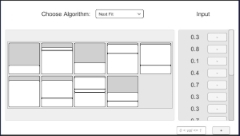
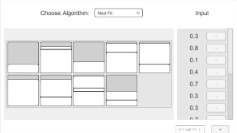
blob style, no ugly borders, clean images

diff --git a/projects/index.html b/projects/index.html
@@ -49,9 +49,9 @@
 			<h1>Projects</h1>
 			
 			<div class="social">
-				<a href="https://github.com/evanfinnigan"><img src="../images/icons/github.png" alt="github icon" height="64" width="64"></a>
-				<a href="https://twitter.com/evanfinnigan"><img src="../images/icons/twitter.png" alt="twitter icon" height="64" width="64"></a>
-				<a href="https://www.instagram.com/evanfinnigan/"><img src="../images/icons/instagram.png" alt="instagram icon" height="64" width="64"></a>
+				<a class="nofocus"  href="https://github.com/evanfinnigan"><img src="../images/icons/github.png" alt="github icon" height="64" width="64"></a>
+				<a class="nofocus" href="https://twitter.com/evanfinnigan"><img src="../images/icons/twitter.png" alt="twitter icon" height="64" width="64"></a>
+				<a class="nofocus" href="https://www.instagram.com/evanfinnigan/"><img src="../images/icons/instagram.png" alt="instagram icon" height="64" width="64"></a>
 			</div>
 			
 			<p>These are some projects and games I have created. The links below provide more details about each project!</p>
@@ -59,27 +59,27 @@
 			<br><br>
 
 			<div class="short-preview">
-				<a href="fidget.html"><img src="../images/fidget.png" alt="Thumbnail for Fidget Spinner."></a>
+				<a class="nofocus" href="fidget.html"><img src="../images/fidget.png" alt="Thumbnail for Fidget Spinner."></a>
 				<a href="fidget.html">Fidget Spinner</a>
 			</div>
 
 			<div class="short-preview">
-				<a href="bin-packing.html"><img src="../images/binpacking-thumbnail.jpg" alt="Thumbnail for Bin Packing project."></a>
+				<a class="nofocus" href="bin-packing.html"><img src="../images/binpacking-thumbnail.jpg" alt="Thumbnail for Bin Packing project."></a>
 				<a href="bin-packing.html">Bin Packing</a>
 			</div>
 			
 			<div class="short-preview">
-				<a href="monster-lazer.html"><img src="../images/monster-lazer-thumbnail.png" alt="Thumbnail for Monster Lazer."></a>
+				<a class="nofocus" href="monster-lazer.html"><img src="../images/monster-lazer-thumbnail.png" alt="Thumbnail for Monster Lazer."></a>
 				<a href="monster-lazer.html">Monster Lazer</a>
 			</div>
 			
 			<div class="short-preview">
-				<a href="game-engines.html"><img src="../images/thumbnails/aerial-firefighting.png" alt="Thumbnail for Game Engines project."></a>
+				<a class="nofocus" href="game-engines.html"><img src="../images/thumbnails/aerial-firefighting.png" alt="Thumbnail for Game Engines project."></a>
 				<a href="game-engines.html">Game Engines Final Project</a>
 			</div>
 			
 			<div class="short-preview">
-				<a href="list/index.html"><img src="../images/thumbnails/emoji-rank.png" alt="Thumbnail for List Rank Demo."></a>
+				<a class="nofocus" href="list/index.html"><img src="../images/thumbnails/emoji-rank.png" alt="Thumbnail for List Rank Demo."></a>
 				<a href="list/index.html">List Ranking Demo</a>
 			</div>
 			

diff --git a/css/styles.css b/css/styles.css
@@ -64,8 +64,13 @@ a:visited, #visited-example {
 	display:none;
 }
 
-a:focus:not(.nav) {
+:focus:not(.nofocus) {
 	border: 1px solid white;
+}
+
+.nofocus:focus img {
+	border: 1px solid white;
+	background: black;
 }
 
 a img:hover {
@@ -175,12 +180,12 @@ code {
 
 .blogpost {
 	display: block;
-	padding: 10px;
+	padding: 1px 30px;
 	margin: 30px 10px;
 	box-sizing: border-box;
 	background: #171E21;
 	border-style: solid;
-	border-width: 1px 1px 1px 8px;
+	border-width: 0px 0px 0px 12px;
 	border-color: #D73C54;
 	border-radius: 15px;
 	font-size: 16px;
@@ -194,14 +199,14 @@ code {
 
 .card {
 	display: block;
-	padding: 10px;
+	padding: 10px 30px;
 	margin: 32px 10px;
 	box-sizing: border-box;
 	background: #171E21;
-	border-style: solid;
-	border-width: 1px 1px 1px 1px;
+	//border-style: solid;
+	//border-width: 5px 50px;
 	border-color: #D73C54;
-	border-radius: 15px;
+	border-radius: 30px;
 	font-size: 16px;
 	text-align: left;
 }
@@ -247,9 +252,10 @@ main {
 }
 
 img {
-	border-style: solid;
+	//border-style: solid;
 	border-width: 1px;
 	border-color: white;
+	border-radius: 15px;
 }
 
 img, .four-columns p, .eight-columns p {
@@ -316,14 +322,14 @@ table {
 .short-preview {
 	display: inline-block;
 	box-sizing: border-box;
-	border-style: solid;
+	//border-style: solid;
 	border-width: 1px;
 	border-color: #D73C54;
-	border-radius: 10px;
+	border-radius: 30px;
 	background: #171E21;
 	width: 12em;
-	height: 12em;
-	padding: 15px;
+	min-height: 11.5em;
+	padding: 1em;
 	margin: 10px;
 	overflow: hidden;
 }
@@ -340,7 +346,7 @@ table {
 .short-preview img {
 	object-fit: cover;
 	height: 6em;
-	width: 7.5em;
+	width: 8em;
 	padding: 0;
 }
 
@@ -371,6 +377,10 @@ ol, ul {
 		margin: 0 auto;
 		padding: 1em;
 		text-align: left;
+	}
+	
+	.card, .blogpost {
+		padding: 10px 50px;
 	}
 }
 
@@ -441,6 +451,14 @@ ol, ul {
 	
 	.social a {
 		margin: 0px 10px;
+	}
+	
+	.card, .blogpost {
+		padding: 1px 10px;
+	}
+	
+	ul {
+		padding-left: 20px;
 	}
 }
 

diff --git a/contact/index.html b/contact/index.html
@@ -51,7 +51,7 @@
 			<p>I'm currently open to hearing about employment opportunities. Please send the details to me via email:</p>
 			
 			<div class="social">
-				<a href="mailto:evanfinnigan at gmail.com"><img src="../images/icons/email.png" alt="instagram icon" height="64" width="64"></a>
+				<a class="nofocus" href="mailto:evanfinnigan at gmail.com"><img src="../images/icons/email.png" alt="instagram icon" height="64" width="64"></a>
 				<br>
 				<a href="mailto:evanfinnigan@gmail.com">evanfinnigan@gmail.com</a>
 			</div>
@@ -60,19 +60,19 @@
 			
 			<div class="social">
 				<div class="four-columns">
-					<a href="https://github.com/evanfinnigan"><img src="../images/icons/github.png" alt="github icon" height="64" width="64"></a>
+					<a class="nofocus" href="https://github.com/evanfinnigan"><img src="../images/icons/github.png" alt="github icon" height="64" width="64"></a>
 					<br>
 					<a href="https://github.com/evanfinnigan">Github</a>
 				</div>
 				
 				<div class="four-columns">
-					<a href="https://twitter.com/EvanFinnigan"><img src="../images/icons/twitter.png" alt="twitter icon" height="64" width="64"></a>
+					<a class="nofocus" href="https://twitter.com/EvanFinnigan"><img src="../images/icons/twitter.png" alt="twitter icon" height="64" width="64"></a>
 					<br>
 					<a href="https://twitter.com/EvanFinnigan">Twitter</a>
 				</div>
 			
 				<div class="four-columns">
-					<a href="https://www.instagram.com/evanfinnigan/"><img src="../images/icons/instagram.png" alt="instagram icon" height="64" width="64"></a>
+					<a class="nofocus" href="https://www.instagram.com/evanfinnigan/"><img src="../images/icons/instagram.png" alt="instagram icon" height="64" width="64"></a>
 					<br>
 					<a href="https://www.instagram.com/evanfinnigan/">Instagram</a>
 				</div>

diff --git a/tutorials/index.html b/tutorials/index.html
@@ -49,9 +49,9 @@
 			<h1>Tutorials</h1>
 			
 			<div class="social">
-				<a href="https://github.com/evanfinnigan"><img src="../images/icons/github.png" alt="github icon" height="64" width="64"></a>
-				<a href="https://twitter.com/evanfinnigan"><img src="../images/icons/twitter.png" alt="twitter icon" height="64" width="64"></a>
-				<a href="https://www.instagram.com/evanfinnigan/"><img src="../images/icons/instagram.png" alt="instagram icon" height="64" width="64"></a>
+				<a class="nofocus" href="https://github.com/evanfinnigan"><img src="../images/icons/github.png" alt="github icon" height="64" width="64"></a>
+				<a class="nofocus" href="https://twitter.com/evanfinnigan"><img src="../images/icons/twitter.png" alt="twitter icon" height="64" width="64"></a>
+				<a class="nofocus" href="https://www.instagram.com/evanfinnigan/"><img src="../images/icons/instagram.png" alt="instagram icon" height="64" width="64"></a>
 			</div>
 			
 			<p>This tutorial goes into detail about the creation process for the Bin Packing project. Check back for more tutorials in the future!</p>
@@ -59,7 +59,7 @@
 			<br><br>
 
 			<div class="short-preview">
-				<a href="bin-packing.html"><img src="../images/binpacking-thumbnail.jpg" alt="Thumbnail for Bin packing tutorial."></a>
+				<a class="nofocus" href="bin-packing.html"><img src="../images/binpacking-thumbnail.jpg" alt="Thumbnail for Bin packing tutorial."></a>
 				<a href="bin-packing.html">Bin Packing Tutorial</a>
 			</div>
 			

diff --git a/index.html b/index.html
@@ -49,9 +49,9 @@
 		<h1>Evan Finnigan</h1>
 		
 		<div class="social">
-			<a href="https://github.com/evanfinnigan"><img src="./images/icons/github.png" alt="github icon" height=64" width="64"></a>
-			<a href="https://twitter.com/evanfinnigan"><img src="./images/icons/twitter.png" alt="twitter icon" height="64" width="64"></a>
-			<a href="https://www.instagram.com/evanfinnigan/"><img src="./images/icons/instagram.png" alt="instagram icon" height="64" width="64"></a>
+			<a class="nofocus" href="https://github.com/evanfinnigan"><img src="./images/icons/github.png" alt="github icon" height=64" width="64"></a>
+			<a class="nofocus" href="https://twitter.com/evanfinnigan"><img src="./images/icons/twitter.png" alt="twitter icon" height="64" width="64"></a>
+			<a class="nofocus" href="https://www.instagram.com/evanfinnigan/"><img src="./images/icons/instagram.png" alt="instagram icon" height="64" width="64"></a>
 		</div>
 		
 		<div class="resume card">
@@ -277,7 +277,7 @@
 		<br>
 		
 		<div class="social">
-			<a href="documents/resume.pdf"><img src="images/icons/resume.png" alt="resume icon" height="64" width="64"></a>
+			<a class="nofocus" href="documents/resume.pdf"><img src="images/icons/resume.png" alt="resume icon" height="64" width="64"></a>
 			<br>
 			<a href="documents/resume.pdf">Résumé (PDF)</a>
 		</div>

diff --git a/blog/index.html b/blog/index.html
@@ -49,9 +49,9 @@
 			<h1>Blog</h1>
 			
 			<div class="social">
-				<a href="https://github.com/evanfinnigan"><img src="../images/icons/github.png" alt="github icon" height="64" width="64"></a>
-				<a href="https://twitter.com/evanfinnigan"><img src="../images/icons/twitter.png" alt="twitter icon" height="64" width="64"></a>
-				<a href="https://www.instagram.com/evanfinnigan/"><img src="../images/icons/instagram.png" alt="instagram icon" height="64" width="64"></a>
+				<a class="nofocus" href="https://github.com/evanfinnigan"><img src="../images/icons/github.png" alt="github icon" height="64" width="64"></a>
+				<a class="nofocus" href="https://twitter.com/evanfinnigan"><img src="../images/icons/twitter.png" alt="twitter icon" height="64" width="64"></a>
+				<a class="nofocus" href="https://www.instagram.com/evanfinnigan/"><img src="../images/icons/instagram.png" alt="instagram icon" height="64" width="64"></a>
 			</div>
 			
 			<div class="blogpost" id="2">

diff --git a/projects/fidget.html b/projects/fidget.html
@@ -52,7 +52,7 @@
 			<br><br>
 			
 			<figure>
-				<a href="./fidget/fidget.html"><img src="../images/fidget.png"  alt="Screenshot of the fidget spinner"></a>
+				<a class="nofocus" href="./fidget/fidget.html"><img src="../images/fidget.png"  alt="Screenshot of the fidget spinner"></a>
 				<figcaption>Screenshot</figcaption>
 			</figure>
 
